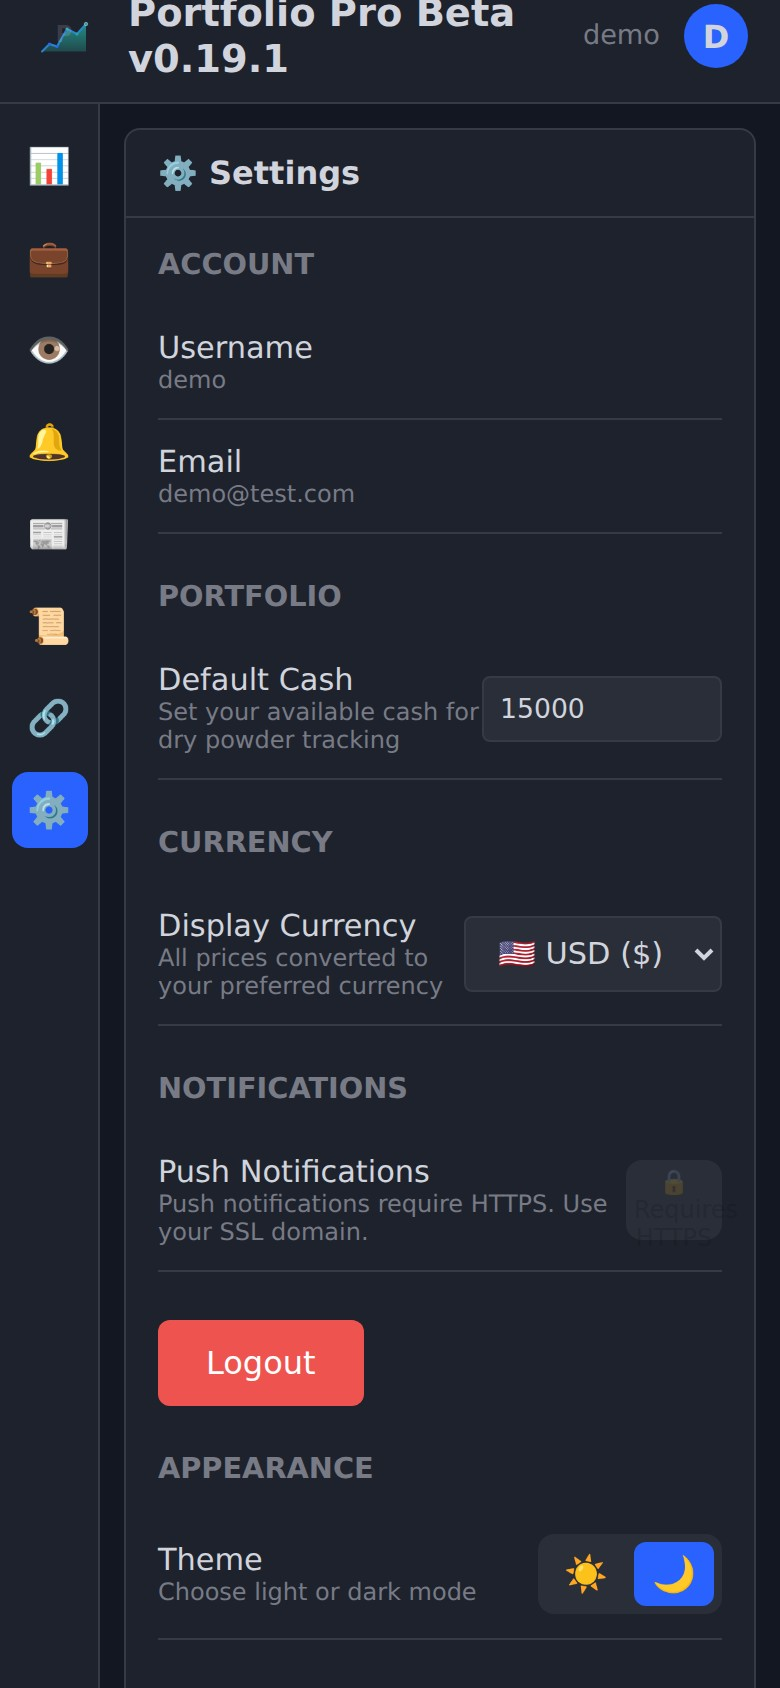
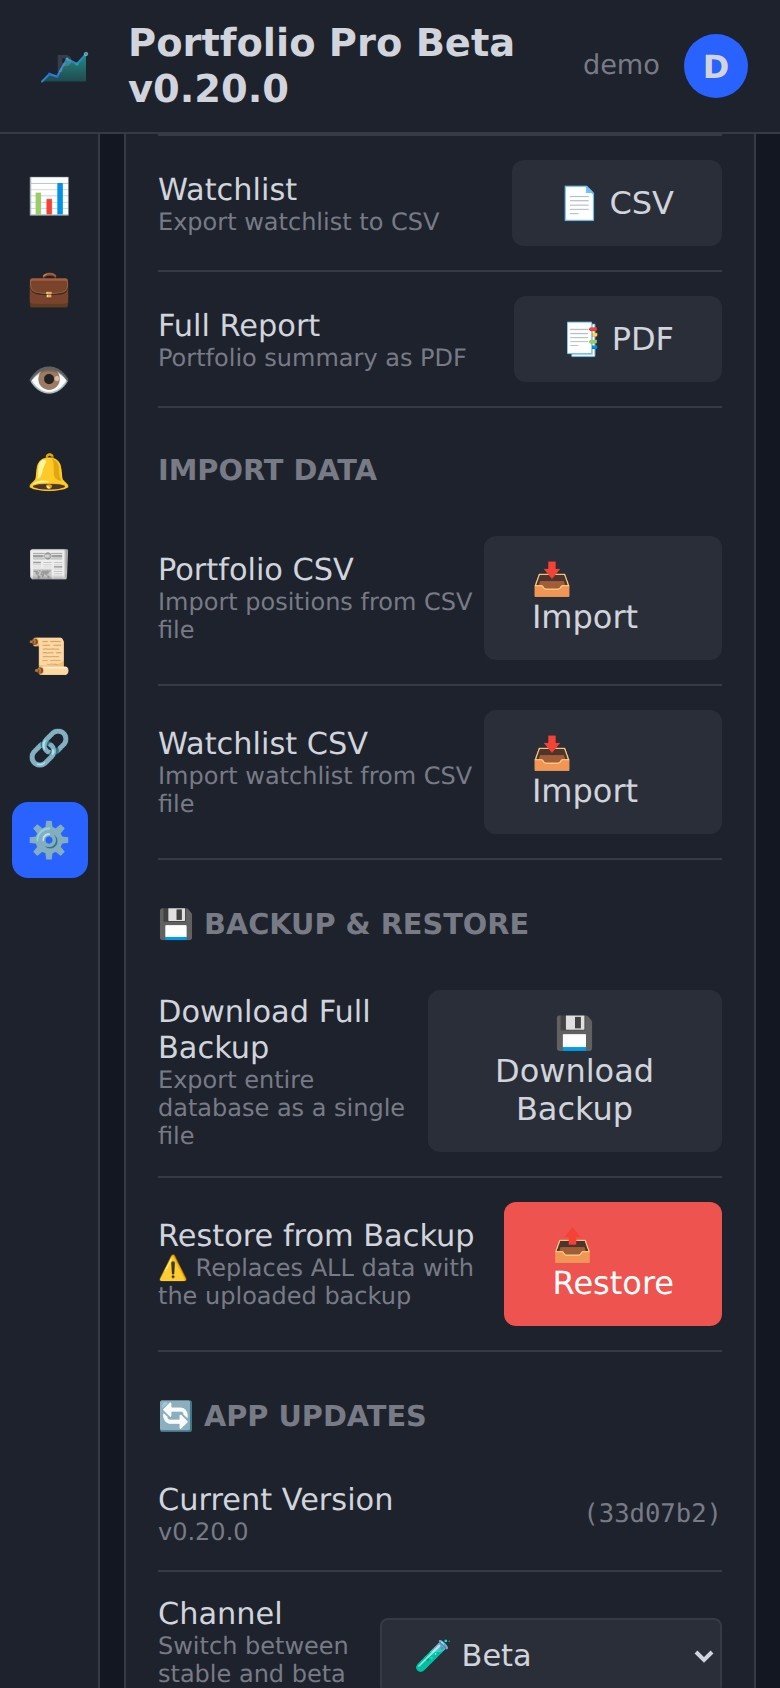
docs: add settings screenshots (account, password, backup)

diff --git a/docs/MANUAL.md b/docs/MANUAL.md
@@ -708,6 +708,8 @@ Toggle between **Dark mode** 🌙 and **Light mode** ☀. The theme affects:
 
 ### 12.2 Change Password
 
+![Account & Change Password](../screenshots/settings-account.jpg)
+
 Change your password from the Settings page:
 
 1. Enter your **Current Password** for verification.
@@ -773,6 +775,8 @@ Controls:
 Click the import button and select a `.csv` file. The app parses and adds the items to your portfolio or watchlist.
 
 ### 12.9 Backup & Restore
+
+![Backup & Restore](../screenshots/settings-backup.jpg)
 
 Full database backup and restore for disaster recovery or migration:
 
